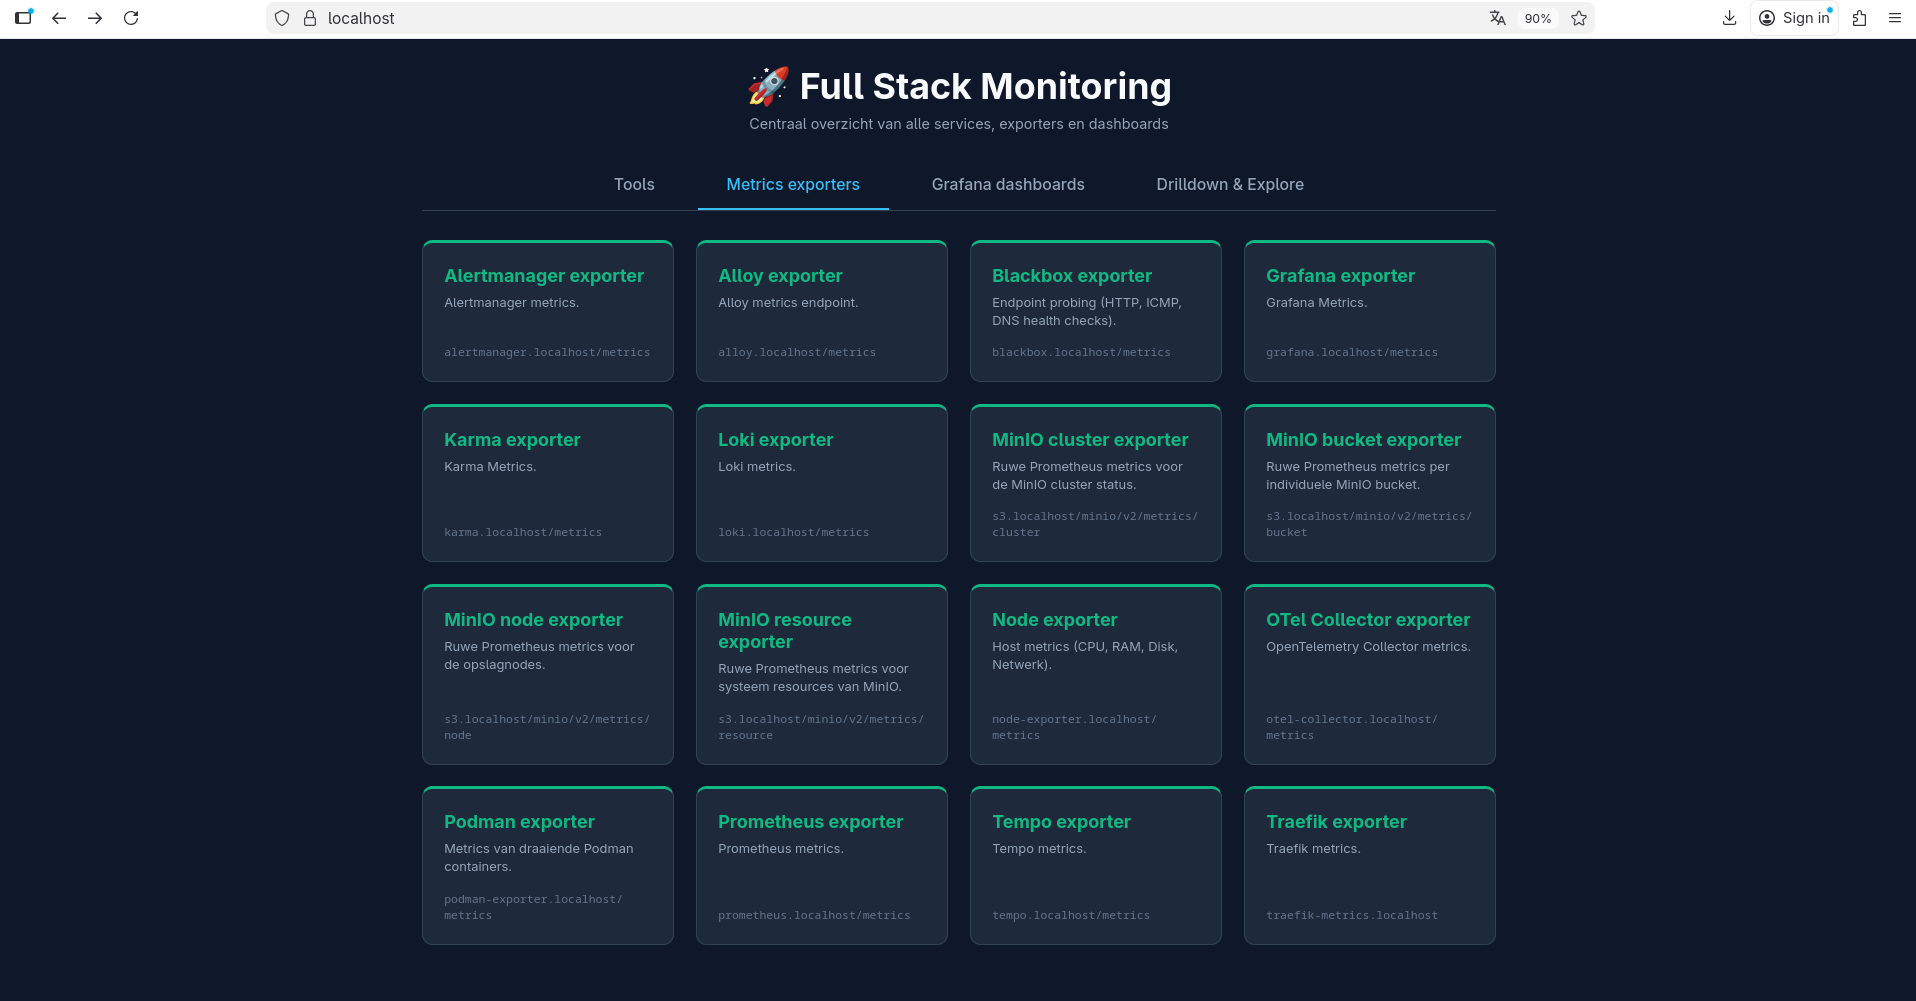
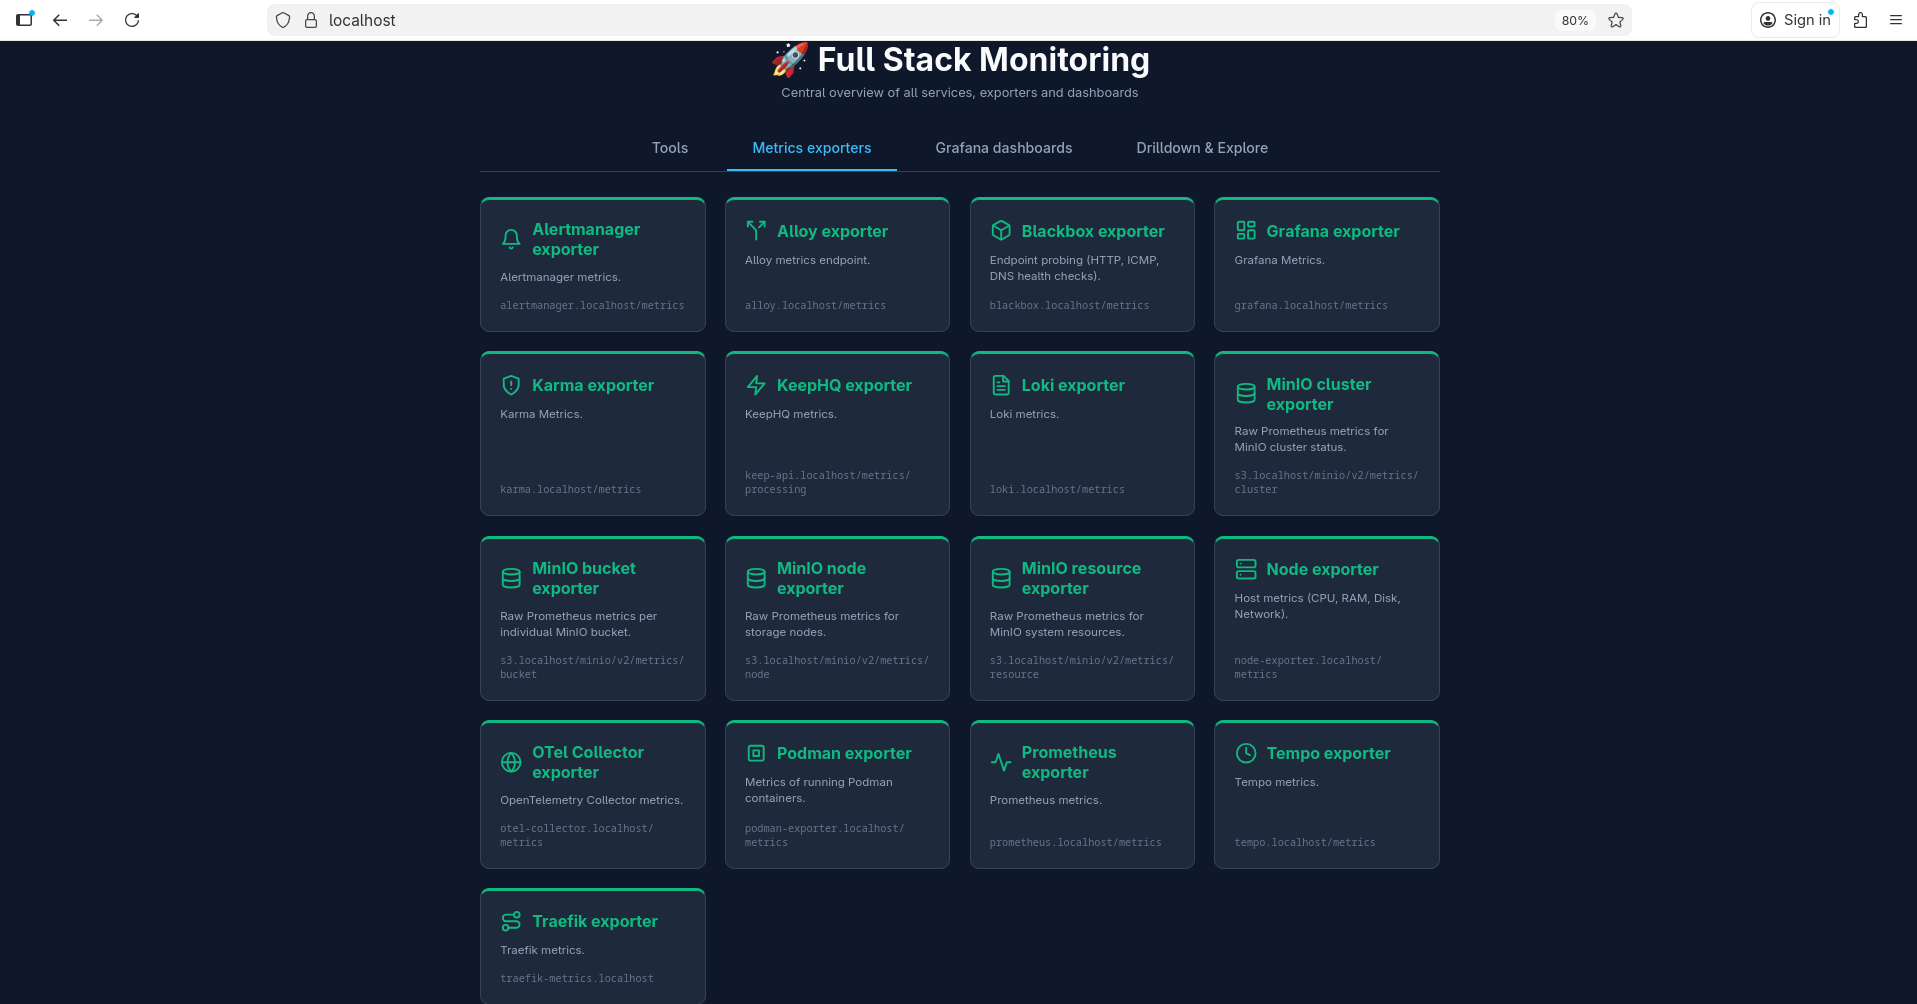
added landing page introduction, updated landing page images

diff --git a/README.md b/README.md
@@ -264,9 +264,19 @@ Docs: https://podman.io/docs
 
 ## 7. Usage
 
-### 7.1 NGINX start page
+### 7.1 NGINX landing page
 
-Go to https://localhost
+Go to **https://localhost**
+
+To make navigating this observability stack effortless, we use NGINX to serve a static landing page [index.html](./landing-page/index.html). This page acts as the central frontend portal for all the monitoring tools. 
+
+Instead of memorizing various ports and subdomains, this portal provides a clean, unified interface with quick links to everything you need:
+*   **Tools:** Direct access to all core applications like Grafana, Prometheus, Alertmanager, Karma, KeepHQ and MinIO.
+*   **Metrics Exporters:** Quick links to the raw metric endpoints for all running services and exporters.
+*   **Grafana Dashboards:** Direct links to instantly open the pre-provisioned dashboards.
+*   **Drilldown & Explore:** Shortcuts to advanced Grafana Explore and Drilldown views for metrics, logs, and traces.
+
+*See the screenshot below for an impression of the NGINX landing page:*
 
 
 ![startpagina1](./images/startpagina1.png)
